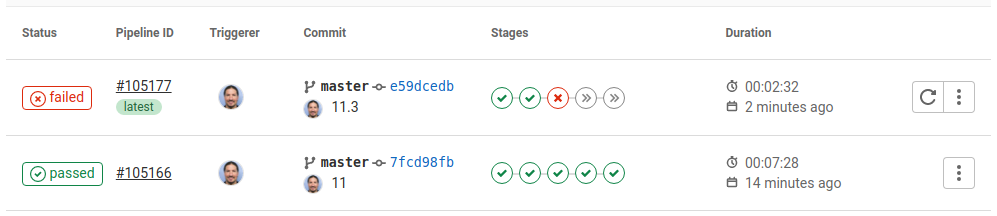
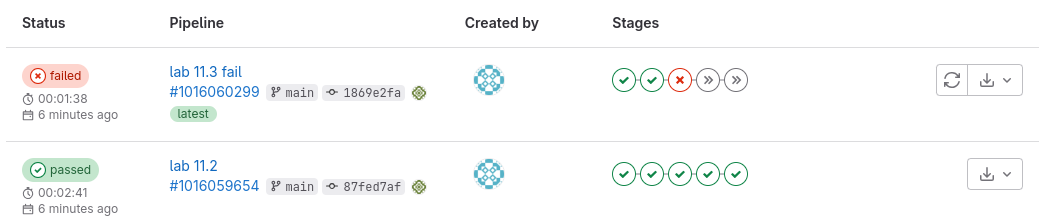
small updates

diff --git a/content/en/docs/05/variables.md b/content/en/docs/05/variables.md
@@ -4,15 +4,16 @@ weight: 5
 sectionnumber: 5
 ---
 
-In GitLab CI/CD, variables can be used to customize jobs by defining and storing values. When using variables there is no need to hard code values. In GitLab, CI/CD variables can be defined by going to `Settings` --> `CI/CD` --> `Variables`  or by simply defining them in the .gitlab-ci.yml file.
-
-![GitLab Variables](../variable.png)
+In GitLab CI/CD, variables can be used to customize jobs by defining and storing values. When using variables there is no need to hard code values.
+In GitLab, CI/CD variables can be defined by going to `Settings` --> `CI/CD` --> `Variables`  or by simply defining them in the .gitlab-ci.yml file.
 
 Variables are useful for configuring third-party services for different environments, such as testing, staging, production, etc. Modify the services attached to those environments by simply changing the variable that points to the API endpoint the services need to use. Also use variables to configure jobs and then make them available as environment variables within the jobs when they run.
 
 As pointed out before, you can define variables in your `gitlab-ci.yml`. You can reuse this variable within your pipeline across different jobs and stages.
 
 If you want to reuse a variable across different Projects or Groups, you can define them through your GitLab instance (`Settings` --> `CI/CD` --> `Variables`)
+
+![GitLab Variables](../variable.png)
 
 In this lab we will talk about the variables in the `gitlab-ci.yml` file only.
 

diff --git a/content/en/docs/11/security.md b/content/en/docs/11/security.md
@@ -81,7 +81,7 @@ Now the pipeline should fail because the GitLab Secret Analyzer will find a priv
 
 ![security_pipeline_fail](../security_pipeline_fail.png)
 
-Here you see the failed pipeline. By clicking ⋮ on the right side you can download the job artifacts. To get the report of the failed job, click on `Download secret_detection_default_branch:secret_detection artifact`. We will learn more on artifacts in the next lab.
+Here you see the failed pipeline. By clicking the download menu ⍗ on the right side you can download the job artifacts. To get the report of the failed job, click on `Download artifacts` and `secret_detection_default_branch:secret_detection`. We will learn more on artifacts in the next lab.
 
 {{% alert title="Warning" color="secondary" %}}If you ever push a secret into a repository, **YOU MUST CONSIDER THIS SECRET AS INSECURE**. Remove the secret from the repository and change all related secrets!{{% /alert %}}
 

diff --git a/content/en/docs/09/job_control.md b/content/en/docs/09/job_control.md
@@ -29,6 +29,8 @@ Use `except` to define when a job does not run.
 
 Use the `only:refs` and `except:refs` keywords to control when to add jobs to a pipeline based on branch names or pipeline types.
 
+{{% alert title="Warning" color="secondary" %}}`only` and `except` are not being actively developed. To control when to add jobs to pipelines, use rules instead.
+{{% /alert %}}
 
 ## {{% param sectionnumber %}}.2: Execution control
 

diff --git a/content/en/docs/12/artifacts.md b/content/en/docs/12/artifacts.md
@@ -64,7 +64,7 @@ Click on `Download` to get the Trivy report file and open it to see the report.
 
 ## Task {{% param sectionnumber %}}.3: Pipeline Artifacts Lab
 
-Go to your pipeline `Build` --> `Pipelines` and click on the ⋮ to see the downloadable artifacts.
+Go to your pipeline `Build` --> `Pipelines` and click on the download menu ⍗ to see the downloadable artifacts.
 
 Then download them and open the JUnit test report.
 

diff --git a/content/en/docs/04/tooling_images.md b/content/en/docs/04/tooling_images.md
@@ -81,7 +81,7 @@ Starting a Gradle Daemon (subsequent builds will be faster)
 > Task :compileJava
 > Task :processResources
 > Task :classes
-> Task :bootJarMainClassName
+> Task :resolveMainClassName
 > Task :bootJar
 > Task :jar
 > Task :assemble
